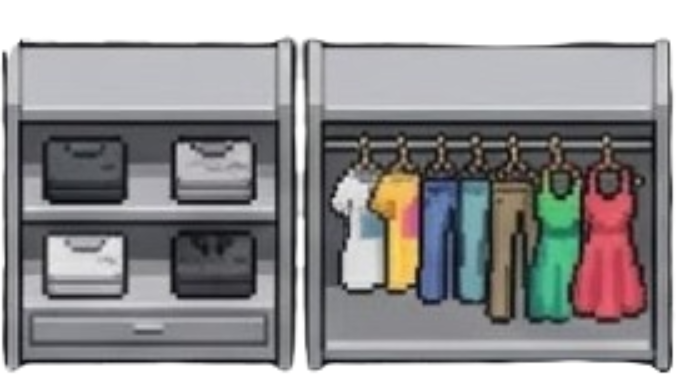
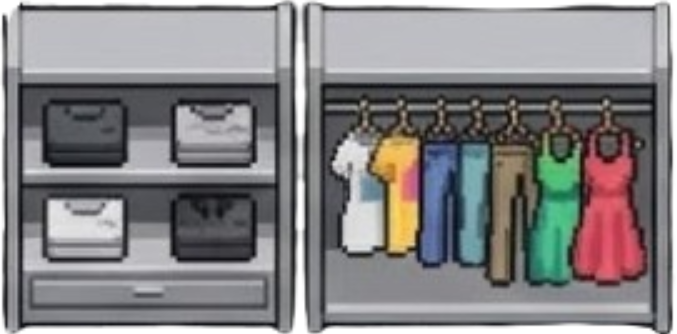
feat(loja): adiciona objetos e colisões na loja de roupas e joalheria (#133)

diff --git a/public/src/utilitarios/configuracao-interior.js b/public/src/utilitarios/configuracao-interior.js
@@ -1,10 +1,33 @@
 
 export const ObjetosInterior = {
-    'Cafe': [
-        { imagem: 'lanchoneteBancada', x: 750, y: 360, escala: 0.8 },
-        { imagem: 'lanchoneteMesa', x: 350, y: 800, escala: 0.45 },
-        { imagem: 'lanchonetePosters', x: 1200, y: 200, escala: 0.3 },
-        { imagem: 'lanchonetePrateleiras', x: 1420, y: 750, escala: 0.55 }
+    'Lanchonete': [
+        { imagem: 'lanchoneteBancada', x: 690, y: 250, escala: 0.98 },
+        { imagem: 'lanchoneteMesa', x: 250, y: 750, escala: 0.45 },
+        { imagem: 'lanchonetePosters', x: 1165, y: 120, escala: 0.28 },
+        { imagem: 'lanchonetePrateleiras', x: 1380, y: 600, escala: 0.55 }
+    ],
+
+    'Roupas': [
+        { imagem: 'modaBancada', x: 750, y: 350, escala: 0.45 },
+        { imagem: 'modaMesa', x: 830, y: 780, escala: 0.6 },
+        { imagem: 'modaArmarios1', x: 1453, y: 350, escala: 0.55},
+        { imagem: 'modaArmarios2', x: 1450, y: 685, escala: 0.55 },
+        { imagem: 'modaEspelho', x: 1150, y: 250, escala: 0.5 },
+        { imagem: 'modaManiquins', x: 200, y: 780, escala: 0.5 },
+        { imagem: 'modaSapatos', x: 400, y: 830, escala: 0.3 }
+    ],
+
+    'Joalheria': [
+        { imagem: 'joalheriaBancada', x: 780, y: 350, escala: 0.7 },
+        { imagem: 'joalheriaMesa', x: 1350, y: 750, escala: 0.4 }
+       
+    ],
+
+    'Doces': [
+        { imagem: 'docesBancada', x: 750, y: 360, escala: 0.8 },
+        { imagem: 'docesMesa', x: 350, y: 800, escala: 0.45 },
+        { imagem: 'docesPosters', x: 1200, y: 200, escala: 0.3 },
+        { imagem: 'docesPrateleiras', x: 1420, y: 750, escala: 0.55 }
     ],
 
     'Pelucia': [
@@ -29,7 +52,7 @@ export const ObjetosInterior = {
         { imagem: 'autoEscolaBancada', x: 805, y: 360, escala: 0.6 },
         { imagem: 'autoEscolaBanquinho', x: 1355, y: 550, escala: 0.35 },
         { imagem: 'autoEscolaMesa', x: 1350, y: 700, escala: 0.4 },
-        { imagem: 'autoEscolaPlaca', x: 795, y: 65, escala: 0.5 }
+        { imagem: 'autoEscolaPlaca', x: 795, y: 67, escala: 0.5 }
     ],
     
     'Movel': [

diff --git a/public/src/cenas/cena-cidade.js b/public/src/cenas/cena-cidade.js
@@ -85,8 +85,8 @@ export class GameScene extends Phaser.Scene {
                 lojaFisicaOriginX: 0.63,
                 lojaFisicaOriginY: 0.61,
 
-                npcX: 600,
-                npcY: 300,
+                npcX: 770,
+                npcY: 245,
 
                 portaX: 205,
                 portaY: 280,
@@ -205,7 +205,7 @@ export class GameScene extends Phaser.Scene {
                 lojaFisicaOriginY: 0.61,
 
                 npcX: 800,
-                npcY: 315,
+                npcY: 320,
 
                 portaX: 260,
                 portaY: 295,
@@ -221,7 +221,7 @@ export class GameScene extends Phaser.Scene {
                 lojaFisicaOriginX: 0.69,
                 lojaFisicaOriginY: 0.62,
 
-                npcX: 600,
+                npcX: 710,
                 npcY: 325,
 
                 portaX: 220,
@@ -303,8 +303,8 @@ export class GameScene extends Phaser.Scene {
             this.scene.launch('pauseScene');
         });
 
-        console.log('Lembrar de retirar');
-        this.scene.start('chocolateScene');
+    console.log('Lembrar de retirar');
+        this.scene.start('roupasScene');
 
     }
 

diff --git a/public/src/cenas/cena-loja.js b/public/src/cenas/cena-loja.js
@@ -297,6 +297,15 @@ export default class LojaScene extends Phaser.Scene {
         else if (this.nomeLoja === 'Chocolate') {
             this.npc.setDepth(101); 
         }
+        else if (this.nomeLoja === 'Autoescola') {
+            this.npc.setDepth(101); 
+        }
+        else if (this.nomeLoja === 'Lanchonete') {
+            this.npc.setDepth(101); 
+        }
+        else if (this.nomeLoja === 'Joalheria') {
+            this.npc.setDepth(101); 
+        }
         
     
 
